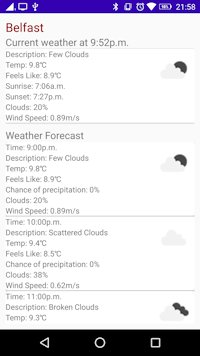
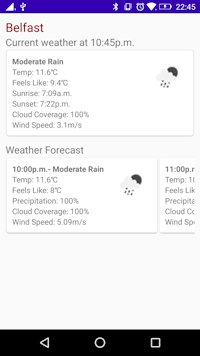
Carousel design and formatting

diff --git a/app/src/main/java/com/android/runweather/adapters/WeatherAdapter.java b/app/src/main/java/com/android/runweather/adapters/WeatherAdapter.java
@@ -22,6 +22,10 @@ import org.apache.commons.lang3.text.WordUtils;
 import java.util.List;
 import java.util.concurrent.ExecutionException;
 
+/**
+ * Adapter to display hourly weather info
+ */
+
 public class WeatherAdapter extends RecyclerView.Adapter<WeatherAdapter.ViewHolder> {
     private List<Hourly> items;
     Context context;
@@ -30,6 +34,13 @@ public class WeatherAdapter extends RecyclerView.Adapter<WeatherAdapter.ViewHold
         this.context = context;
         this.items = items;
     }
+
+    /**
+     * Get the view
+     * @param parent result view
+     * @param viewType
+     * @return item view
+     */
 
     @NonNull
     @Override
@@ -44,11 +55,15 @@ public class WeatherAdapter extends RecyclerView.Adapter<WeatherAdapter.ViewHold
     public void onBindViewHolder(@NonNull WeatherAdapter.ViewHolder holder, int position) {
         Hourly item = items.get(position);
 
-        ImageIconTask icontask = new ImageIconTask();
-        icontask.execute(item.getWeather().get(0).getIcon());
+        //kick off an async task to get weather image
+        ImageIconTask iconTask = new ImageIconTask();
+        iconTask.execute(item.getWeather().get(0).getIcon());
 
-        holder.dt_txt.setText(FormattingUtils.formatDateTime(Integer.toString(item.getDt())));
-        holder.description.setText(WordUtils.capitalize(item.getWeather().get(0).getDescription()));
+
+        //set display fields with the model data
+        String time = FormattingUtils.formatDateTime(Integer.toString(item.getDt()));
+        String description = WordUtils.capitalize(item.getWeather().get(0).getDescription());
+        holder.description.setText(String.format("%s- %s", time, description));
         holder.precip.setText(String.format("%.0f%%", (item.getPop() * 100))); //probability is in decimal format, * 100 to get percent
         holder.clouds.setText(String.format("%s%%", item.getClouds()));
         holder.temp.setText(FormattingUtils.formatTemperature(item.getTemp()));
@@ -57,7 +72,7 @@ public class WeatherAdapter extends RecyclerView.Adapter<WeatherAdapter.ViewHold
 
         //get icon for weather condition
         try {
-            Drawable drawable = icontask.get();
+            Drawable drawable = iconTask.get();
             //set Img
             holder.img.setBackground(drawable);
         } catch (ExecutionException e) {
@@ -75,8 +90,6 @@ public class WeatherAdapter extends RecyclerView.Adapter<WeatherAdapter.ViewHold
 
     static class ViewHolder extends RecyclerView.ViewHolder {
 
-
-        TextView dt_txt;
         TextView description;
         TextView precip;
         TextView clouds;
@@ -90,7 +103,6 @@ public class WeatherAdapter extends RecyclerView.Adapter<WeatherAdapter.ViewHold
             super(itemView);
             rootView = itemView;
             //instantiate UI components
-            dt_txt = itemView.findViewById(R.id.dt_txt);
             description = itemView.findViewById(R.id.description);
             precip = itemView.findViewById(R.id.precip);
             clouds = itemView.findViewById(R.id.clouds);

diff --git a/app/src/main/java/com/android/runweather/activities/ResultActivity.java b/app/src/main/java/com/android/runweather/activities/ResultActivity.java
@@ -7,6 +7,7 @@ import android.widget.ImageView;
 import android.widget.TextView;
 
 import androidx.annotation.NonNull;
+import androidx.recyclerview.widget.DividerItemDecoration;
 import androidx.recyclerview.widget.LinearLayoutManager;
 import androidx.recyclerview.widget.RecyclerView;
 
@@ -85,7 +86,6 @@ public class ResultActivity extends Activity implements AsyncResponse {
 
         WeatherAdapter mainRecyclerAdapter = new WeatherAdapter(this, hourlyList);
         mRecyclerView.setAdapter(mainRecyclerAdapter);
-
         mRecyclerView.setOnScrollListener(new RecyclerView.OnScrollListener() {
             @Override
             public void onScrollStateChanged(@NonNull RecyclerView recyclerView, int newState) {
@@ -96,15 +96,6 @@ public class ResultActivity extends Activity implements AsyncResponse {
 
             }
 
-
-            //set the adapter to display each item
-
-
-            //WeatherAdapter adapter = new WeatherAdapter(this, hourlyList);
-            //recyclerView.setAdapter(adapter);
-
-            // setListAdapter(adapter);
-            //lvWeather = getListView();
         });
     }
 

diff --git a/README.md b/README.md
@@ -26,7 +26,6 @@ weatherKey=YOUR_API_KEY
 This is the first iteration of the app and it is under construction subject to frequent code updates.
 
 Future updates will include:
-* Displaying the forecasted weather cards in a horizontal carousel so the user can swipe left/right between them
 * Snapping the view to the card with the optimal weather conditions
 * Adding in recommendations for what to wear for each timeslot
 * Filters to refine the time range of results
@@ -36,7 +35,7 @@ Future updates will include:
 A Kanban board outlining future work and progress to date can be found [here](https://trello.com/b/GRX8n57o/weather-run-app)
 
 ## Screenshots
-Screenshots of UI as of 20th September 2020. Images will be updated as UI changes are committed.
+Screenshots of UI as of 23rd September 2020. Images will be updated as UI changes are committed.
 
 ![Location screen](screenshots/ScreenshotLoc1.png)
 
